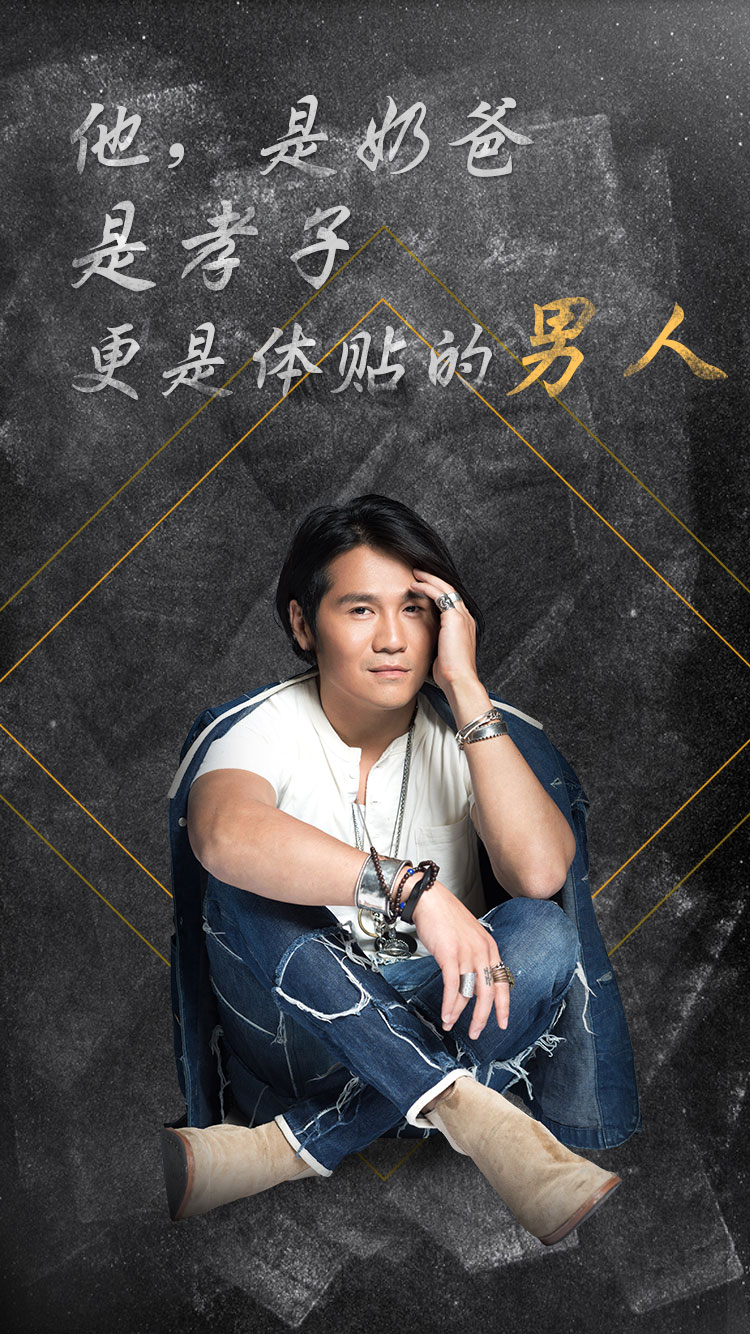
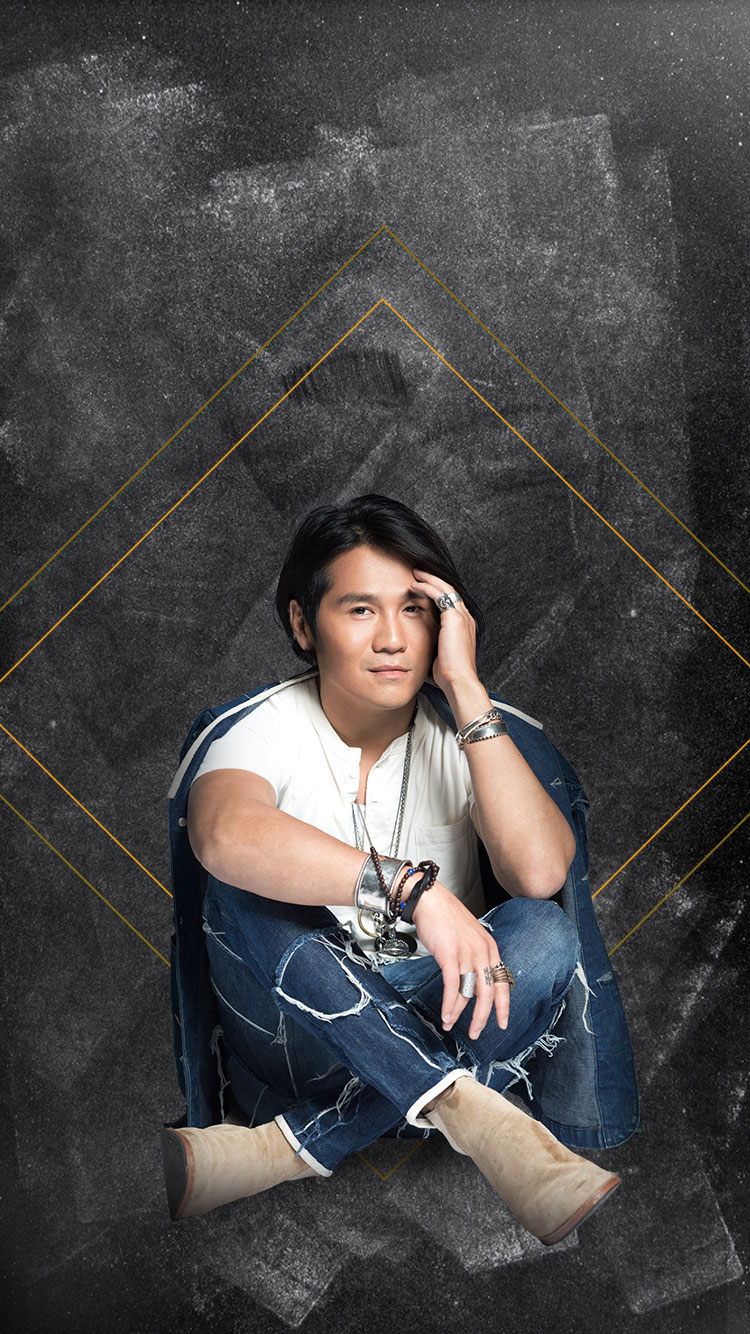
更新资源

diff --git a/index.html b/index.html
@@ -15,80 +15,74 @@
     <div class="container">
         <div id="page_wrap" class="page-wrap">
             <section class="page first">
+                <div class="title animated fadeInDown"></div>
                 <div class="arrow"></div>
             </section>
             <section class="page second">
+                <div class="title animated"></div>
                 <div class="arrow"></div>
             </section>
             <section class="page third">
+                <div class="title animated"></div>
                 <div class="arrow"></div>
             </section>
             <section class="page fourth">
+                <div class="title animated"></div>
                 <div class="arrow"></div>
             </section>
             <section class="page fifth">
+                <div class="title animated"></div>
                 <a class="lnk-advance" href="http://fun.yy.com/html/publish/1604/325853488503.html"></a>
             </section>
         </div>
     </div>
     <!-- build:js js/app.js -->
     <script src="js/zepto/zepto.js"></script>
-    <script src="js/zepto/ajax.js"></script>
     <script src="js/zepto/event.js"></script>
     <script src="js/fullpage.js"></script>
     <!-- endbuild -->
     <script src="//res.wx.qq.com/open/js/jweixin-1.0.0.js"></script>
+    <script src="http://www.ttthing.com/cgi/yy_game/ticket/?url=http://www.ttthing.com/weixin/yy_caoge/"></script>
     <script>
-        $('#page_wrap').fullpage();
+        $('#page_wrap').fullpage({
+            afterChange: function (e) {
+                var $title = $('.title');
+                $title.eq(e.prev).removeClass('fadeInDown');
+                $title.eq(e.cur).addClass('fadeInDown');
+            }
+        });
 
         // 分享参数
         var SHARE_OBJ = {
             title: 'Grace欲跟曹格上YY，寂寞先生给你好看',
             desc: '一个等待了十年的约会 5月8日 晚八点 就等你来！',
             link: location.href,
-            imgUrl: 'http://www.ttthing.com/weixin/yy_xxx/images/thumbnail.png',
-            success: function () { }
+            imgUrl: 'http://www.ttthing.com/weixin/yy_caoge/images/thumbnail.png',
+            success: function() {}
         };
 
         // 初始化分享
         function initShare() {
-            $.ajax({
-                url: 'http://www.ttthing.com/cgi/yy_game/ticket/',
-                type: 'GET',
-                data: {
-                    url: location.href
-                },
-                dataType: 'json',
-                success: function (data) {
-                    wx.config({
-                        appId: data.appId,
-                        timestamp: data.timestamp,
-                        nonceStr: data.nonceStr,
-                        signature: data.signature,
-                        jsApiList: ['onMenuShareTimeline', 'onMenuShareAppMessage', 'onMenuShareQQ', 'onMenuShareWeibo', 'onMenuShareQZone']
-                    });
-
-                    wx.ready(function () {
-
-                        // 分享到朋友圈
-                        wx.onMenuShareTimeline(SHARE_OBJ);
-
-                        // 分享给朋友
-                        wx.onMenuShareAppMessage(SHARE_OBJ);
-
-                        // 分享到QQ
-                        wx.onMenuShareQQ(SHARE_OBJ);
-
-                        // 分享到腾讯微博
-                        wx.onMenuShareWeibo(SHARE_OBJ);
-
-                        // 分享到QQ空间
-                        wx.onMenuShareQZone(SHARE_OBJ);
-                    });
-                }
+            wx.config({
+                appId: wx_conf.appId,
+                timestamp: wx_conf.timestamp,
+                nonceStr: wx_conf.nonceStr,
+                signature: wx_conf.signature,
+                jsApiList: ['onMenuShareTimeline', 'onMenuShareAppMessage', 'onMenuShareQQ', 'onMenuShareWeibo', 'onMenuShareQZone']
+            });
+            wx.ready(function() {
+                // 分享到朋友圈
+                wx.onMenuShareTimeline(SHARE_OBJ);
+                // 分享给朋友
+                wx.onMenuShareAppMessage(SHARE_OBJ);
+                // 分享到QQ
+                wx.onMenuShareQQ(SHARE_OBJ);
+                // 分享到腾讯微博
+                wx.onMenuShareWeibo(SHARE_OBJ);
+                // 分享到QQ空间
+                wx.onMenuShareQZone(SHARE_OBJ);
             });
         }
-
         initShare();
     </script>
 </body>

diff --git a/css/style.css b/css/style.css
@@ -34,6 +34,30 @@
     transform: translate(0, -5px);
   }
 }
+@-webkit-keyframes fadeInDown {
+  0% {
+    opacity: 0;
+    -webkit-transform: translate3d(0, -50%, 0);
+    transform: translate3d(0, -50%, 0);
+  }
+  to {
+    opacity: 1;
+    -webkit-transform: none;
+    transform: none;
+  }
+}
+@keyframes fadeInDown {
+  0% {
+    opacity: 0;
+    -webkit-transform: translate3d(0, -50%, 0);
+    transform: translate3d(0, -50%, 0);
+  }
+  to {
+    opacity: 1;
+    -webkit-transform: none;
+    transform: none;
+  }
+}
 * {
   box-sizing: border-box;
   outline: 0;
@@ -46,6 +70,16 @@ body {
   height: 100%;
   font-size: 62.5%;
   text-align: center;
+}
+.animated {
+  -webkit-animation-duration: 1s;
+  animation-duration: 1s;
+  -webkit-animation-fill-mode: both;
+  animation-fill-mode: both;
+}
+.fadeInDown {
+  -webkit-animation-name: fadeInDown;
+  animation-name: fadeInDown;
 }
 .container {
   position: absolute;
@@ -72,47 +106,75 @@ body {
   position: relative;
   display: block;
   overflow: hidden;
+  background-repeat: no-repeat;
+  background-position: 50% 100%;
+  background-size: auto 100%;
+}
+.page.cur .title {
+  opacity: 1;
+}
+.page .title {
+  margin-top: 5%;
+  background-repeat: no-repeat;
+  background-position: 50% 100%;
+  background-size: auto 100%;
+  opacity: 0;
 }
 .page .arrow {
   position: absolute;
   left: 50%;
   bottom: 30px;
-  margin-left: -17px;
+  margin-left: -10px;
   margin-top: -34px;
   width: 19px;
   height: 12px;
-  background: url(../images/arrow.png) no-repeat 50% 100%;
+  background: url(images/arrow.png) no-repeat 50% 100%;
   background-size: auto 100% !important;
   -webkit-animation: arrow 1.5s infinite ease-in-out;
   animation: arrow 1.5s infinite ease-in-out;
 }
 .first {
-  background: url(../images/bg_1.jpg) 50% 100%;
-  background-size: 100% !important;
+  background-image: url(images/bg_1.jpg);
+}
+.first .title {
+  height: 155.5px;
+  background-image: url(images/title_1.png);
 }
 .second {
-  background: url(../images/bg_2.jpg) 50% 100%;
-  background-size: 100% !important;
+  background-image: url(images/bg_2.jpg);
+}
+.second .title {
+  height: 171px;
+  background-image: url(images/title_2.png);
 }
 .third {
-  background: url(../images/bg_3.jpg) 50% 100%;
-  background-size: 100% !important;
+  background-image: url(images/bg_3.jpg);
+}
+.third .title {
+  height: 179.5px;
+  background-image: url(images/title_3.png);
 }
 .fourth {
-  background: url(../images/bg_4.jpg) 50% 100%;
-  background-size: 100% !important;
+  background-image: url(images/bg_4.jpg);
+}
+.fourth .title {
+  height: 132px;
+  background-image: url(images/title_4.png);
 }
 .fifth {
-  background: url(../images/bg_5.jpg) 50% 100%;
-  background-size: 100% !important;
+  background-image: url(images/bg_5.jpg);
+}
+.fifth .title {
+  height: 204px;
+  background-image: url(images/title_5.png);
 }
 .fifth .lnk-advance {
   position: absolute;
-  top: 38%;
+  top: 34%;
   left: 10%;
   display: block;
   width: 80px;
   height: 97px;
-  background: url(../images/advance.png) no-repeat 50% 100%;
+  background: url(images/advance.png) no-repeat 50% 100%;
   background-size: auto 100% !important;
 }

diff --git a/css/style.less b/css/style.less
@@ -14,6 +14,16 @@
         transform: translate(0, -5px);
     }
 }
+@keyframes fadeInDown {
+    0% {
+        opacity: 0;
+        transform: translate3d(0, -50%, 0)
+    }
+    to {
+        opacity: 1;
+        transform: none
+    }
+}
 
 * {
     box-sizing: border-box;
@@ -28,6 +38,15 @@ body {
     height: 100%;
     font-size: 62.5%;
     text-align: center;
+}
+
+.animated {
+    animation-duration: 1s;
+    animation-fill-mode: both
+}
+
+.fadeInDown {
+    animation-name: fadeInDown
 }
 
 .container {
@@ -56,51 +75,80 @@ body {
     position: relative;
     display: block;
     overflow: hidden;
+    background-repeat: no-repeat;
+    background-position: 50% 100%;
+    background-size: auto 100%;
+    &.cur {
+        .title {
+            opacity: 1;
+        }
+    }
+    .title {
+        margin-top: 5%;
+        background-repeat: no-repeat;
+        background-position: 50% 100%;
+        background-size: auto 100%;
+        opacity: 0;
+    }
     .arrow {
         position: absolute;
         left: 50%;
         bottom: 30px;
-        margin-left: -17px;
+        margin-left: -10px;
         margin-top: -34px;
         width: 19px;
         height: 12px;
-        background: url(../images/arrow.png) no-repeat 50% 100%;
+        background: url(images/arrow.png) no-repeat 50% 100%;
         background-size: auto 100% !important;
         animation: arrow 1.5s infinite ease-in-out;
     }
 }
-
 .first {
-    background: url(../images/bg_1.jpg) 50% 100%;
-    background-size: 100% !important;
+    background-image: url(images/bg_1.jpg);
+    .title {
+        height: 155.5px;
+        background-image: url(images/title_1.png);
+    }
 }
 
 .second {
-    background: url(../images/bg_2.jpg) 50% 100%;
-    background-size: 100% !important;
+    background-image: url(images/bg_2.jpg);
+    .title {
+        height: 171px;
+        background-image: url(images/title_2.png);
+    }
 }
 
 .third {
-    background: url(../images/bg_3.jpg) 50% 100%;
-    background-size: 100% !important;
+    background-image: url(images/bg_3.jpg);
+    .title {
+        height: 179.5px;
+        background-image: url(images/title_3.png);
+    }
 }
 
 .fourth {
-    background: url(../images/bg_4.jpg) 50% 100%;
-    background-size: 100% !important;
+    background-image: url(images/bg_4.jpg);
+    .title {
+        height: 132px;
+        background-image: url(images/title_4.png);
+    }
 }
 
 .fifth {
-    background: url(../images/bg_5.jpg) 50% 100%;
-    background-size: 100% !important;
+    background-image: url(images/bg_5.jpg);
+    .title {
+        height: 204px;
+        background-image: url(images/title_5.png);
+    }
     .lnk-advance {
         position: absolute;
-        top: 38%;
+        top: 34%;
         left: 10%;
         display: block;
         width: 80px;
         height: 97px;
-        background: url(../images/advance.png) no-repeat 50% 100%;
+        background: url(images/advance.png) no-repeat 50% 100%;
         background-size: auto 100% !important;
     }
 }
